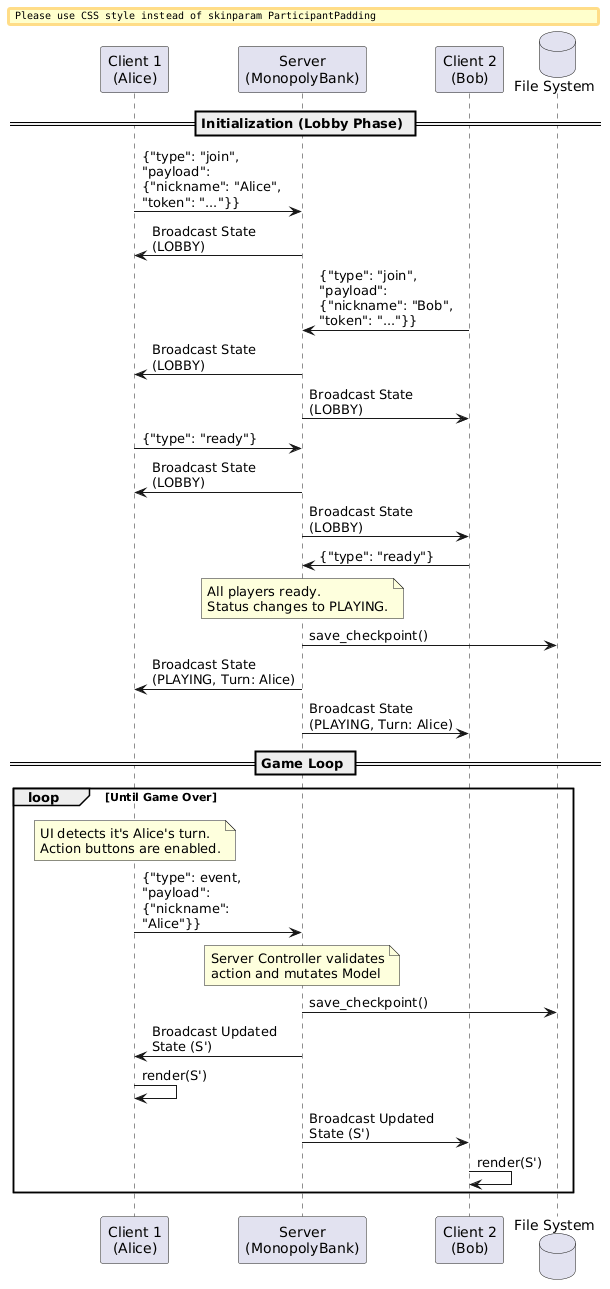
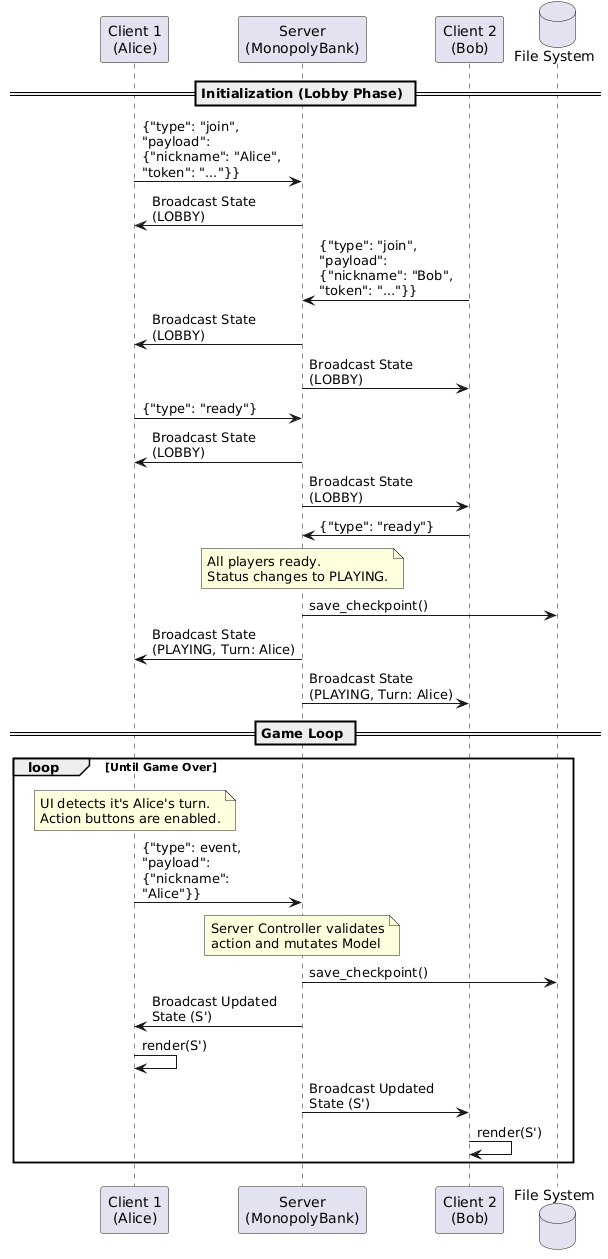
little fixes

diff --git a/distributed-systems-final-report.tex b/distributed-systems-final-report.tex
@@ -77,8 +77,8 @@ Once all the players in the \textit{lobby} are ready (at least 2 players)
 the game starts, 5000 coins and 5 random properties are assigned to each player.
 Following their turn, players can make actions that are sent to the server and updates the game state.
 The updated state is sent back to all the players.
-The game continues until only one players remains without going in \textit{bankruptcy}
-or until all the players left the game.
+The game continues until only one player remains without going in \textit{bankruptcy}
+or until all the players leave the game.
 
 
 Distribution is needed in this project to allow geographical distribution between nodes,
@@ -326,7 +326,7 @@ The global state of the system encapsulates all the information required to resu
 \vspace{0.5cm}
 \begin{figure}[H]
     \centering
-    \includegraphics[width=0.7\textwidth]{figures/model_diagram}
+    \includegraphics[width=0.9\textwidth]{figures/model_diagram}
     \caption{Class diagram of the model's main components.}
     \label{fig:model class diagram}
 \end{figure}
@@ -339,16 +339,20 @@ The interaction architecture avoids peer-to-peer communication: all clients comm
 
 \subsubsection*{Interaction Patterns}
 The clients never calculate game logic (e.g., they do not compute dice rolls or property costs).
-They strictly send user events and wait.
+They only send user events and wait.
 The Server is the sole authority that executes the logic and determines the outcome.
-Instead of clients polling the server for updates, the server proactively broadcasts the entire serialized game state to all connected peers every time a mutation occurs.
-Upon receiving a new state, the client's GUI inspects the \texttt{current\_turn\_nickname} and \texttt{allowed\_actions} fields to dynamically determine whether to enable the input buttons for the local user.
+Instead of clients polling the server for updates, the server proactively broadcasts the entire
+serialized game state to all connected peers every time a mutation occurs.
+Upon receiving a new state, the client's GUI inspects the \texttt{current\_turn\_nickname} and \texttt{allowed\_actions} fields
+to dynamically determine whether to enable the input buttons for the local user.
 
 
 \subsubsection*{Communication Flow}
-Communication is triggered purely by user inputs (e.g., clicking a button) or connection lifecycle events (e.g., socket closed).
-Clients send lightweight JSON payloads containing an action type (e.g., \texttt{join}, \texttt{ready}, \texttt{roll}) and a payload specifying the actor's nickname and token.
-The server responds by broadcasting the full, heavy JSON representation of the entire Monopoly object, ensuring all clients are perfectly synchronized.
+Communication is triggered by user inputs (e.g., clicking a button) or connection lifecycle events (e.g., socket closed).
+Clients send lightweight JSON payloads containing an action type (e.g., \texttt{join}, \texttt{ready}, \texttt{roll})
+and a payload specifying the player's nickname and token.
+The server responds by broadcasting the full JSON representation of the entire Monopoly object,
+ensuring all clients are perfectly synchronized.
 
 
 \subsubsection*{Sequence Diagram}
@@ -770,5 +774,6 @@ Possible future work and improvements could be:
     This would allow players to register with a username and password, keeping track of their game history, win rates, and friends lists.
     Consequently, a more robust authentication and authorization mechanism would replace the current one.
     \item \textbf{Strengthened Security:} Introducing a layer of encryption on exchanged data and saved files on both server and client sides.
+    \item \textbf{Adding game feature:} The system implements only few feature of the real board game, a lot of feature can be added to make the game complete.
 \end{itemize}
 \end{document}
